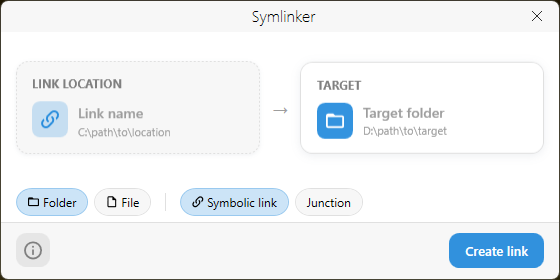
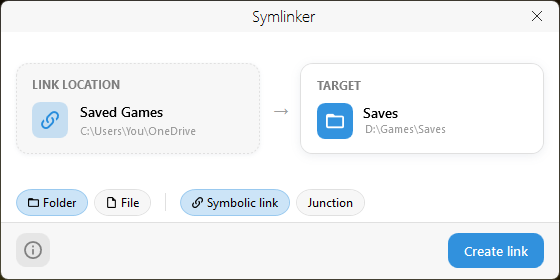
fix: remove fuzzy rendering

diff --git a/Symlinker/MainWindow.xaml b/Symlinker/MainWindow.xaml
@@ -20,7 +20,11 @@
     NonActiveWindowTitleBrush="{DynamicResource MahApps.Brushes.Gray10}"
     TitleForeground="{DynamicResource MahApps.Brushes.ThemeForeground}"
     OverrideDefaultWindowCommandsBrush="{DynamicResource MahApps.Brushes.ThemeForeground}"
-    Background="{DynamicResource MahApps.Brushes.Control.Background}">
+    Background="{DynamicResource MahApps.Brushes.Control.Background}"
+    UseLayoutRounding="True"
+    SnapsToDevicePixels="True"
+    TextOptions.TextFormattingMode="Display"
+    TextOptions.TextRenderingMode="ClearType">
 
     <Window.Resources>
         <!-- WinUI 3 corner radius -->
